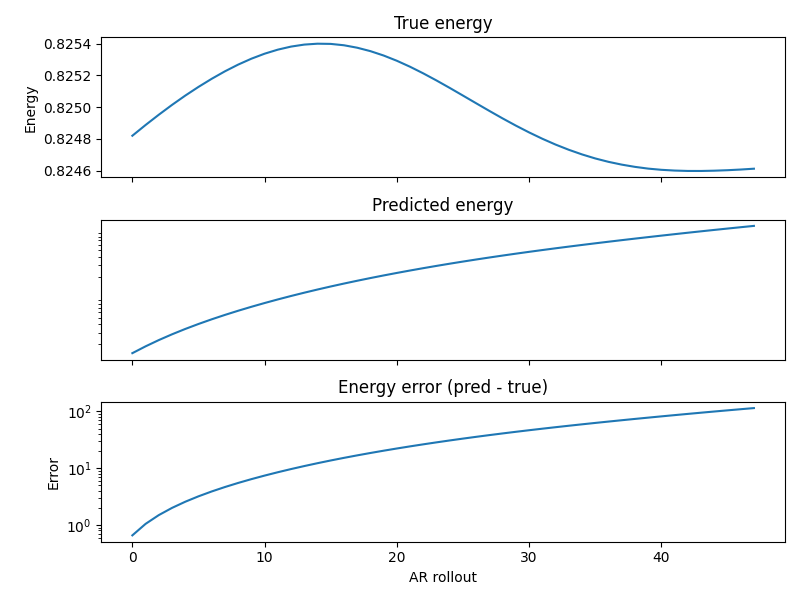
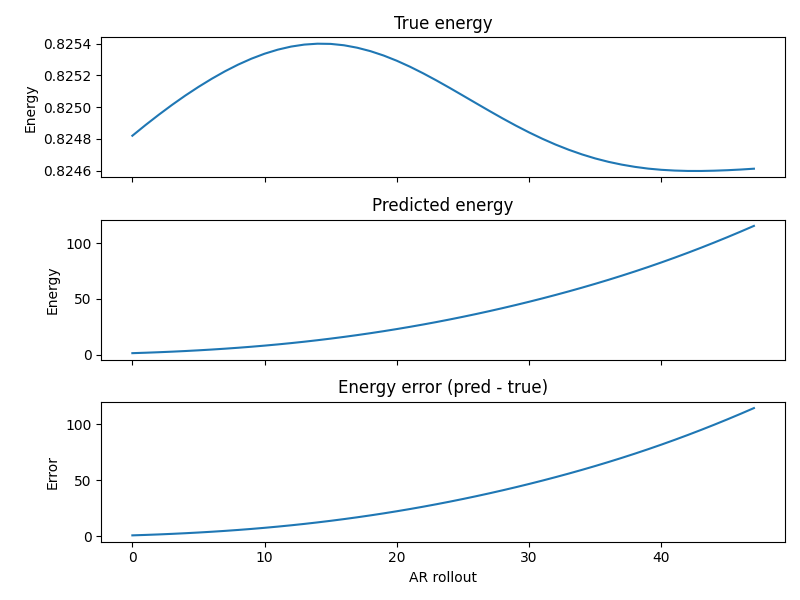
results

diff --git a/scripts/PY_files/eval_models_scripts/plot_functions.py b/scripts/PY_files/eval_models_scripts/plot_functions.py
@@ -75,11 +75,11 @@ def plot_energy_over_time(E_pred, E_true):
 
     # Predicted energy
     axes[1].plot(rollout, E_pred)
-    axes[1].semilogy("Energy")
+    axes[1].set_ylabel("Energy")
     axes[1].set_title("Predicted energy")
 
     # Error
-    axes[2].plor(rollout, E_err)
+    axes[2].plot(rollout, E_err)
     axes[2].set_ylabel("Error")
     axes[2].set_xlabel("AR rollout")
     axes[2].set_title("Energy error (pred - true)")